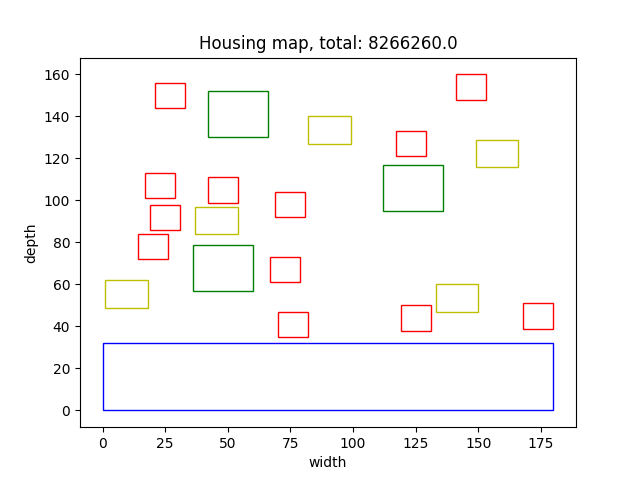
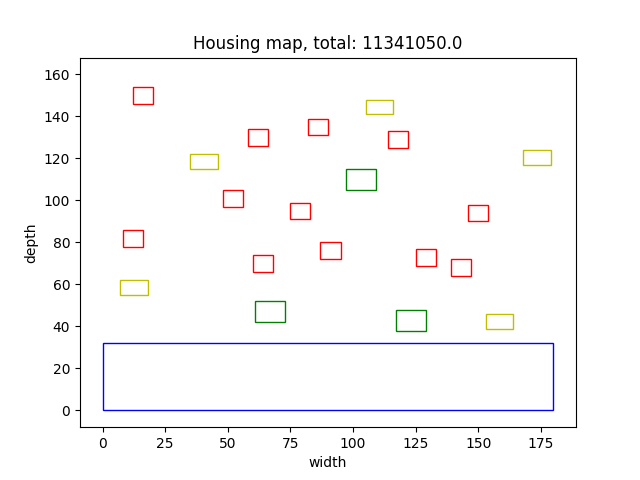
added constraint checker to overlaps teamwork

diff --git a/project_code/classes/land.py b/project_code/classes/land.py
@@ -13,6 +13,7 @@ class Land():
     def __init__(self, source_file, number_houses):
         self.width = 180
         self.depth = 160
+        self.all_polygons = []
         self.all_land_objects = []
         # self.available_coordinates = []
         self.total = 0
@@ -24,7 +25,7 @@ class Land():
         
         self.water = self.load_water(source_file)
         self.load_houses(number_houses, )
-         
+        
     # def remove_used_point(self, land_object):
         
         # for x in range(land_object.bottom_left[0], land_object.top_right[0]+1):
@@ -45,14 +46,27 @@ class Land():
             if land_object.polygon.intersects(new_house) == True:
                 # del house
                 return True
+        
+            if land_object.name != 'water':
+                origin = house.polygon
+                polygons = MultiPolygon(self.all_polygons)
+                nearest_geom = nearest_points(origin, polygons)
+                x = math.floor(nearest_geom[0].distance(nearest_geom[1]))
+                extra_space = math.floor(x)
+                if extra_space < land_object.free_space:
+                    #print(f"extra space: {extra_space}")
+                    #print (f'fout {land_object.name}')
+                    return True
+                
 
         # if no overlap append polygon to list
         self.all_land_objects.append(house)
+        self.all_polygons.append(house.polygon)
 
-        #self.remove_used_point(house)  
-        print(house)
-        # exit the while loop
         return False
+    
+    def check_free_space(self):
+        pass
 
 
     def load_water(self, source_file):
@@ -74,9 +88,8 @@ class Land():
 
                 water = Water(bottom_left_tuple, top_right_tuple, polygon)
 
-                # self.remove_used_point(water)
-
                 self.all_land_objects.append(water)
+                self.all_polygons.append(water.polygon)
          
         return self.all_land_objects
 
@@ -86,36 +99,36 @@ class Land():
         '''
 
         for i in range(int(0.15 * number_houses)):
-            width = 24
-            depth = 22
+            width = 12
+            depth = 10
             overlap = True
             maison = None
             while (overlap):
                 coordinates = randomise_coordinates(width, depth)
                 polygon = Polygon([coordinates, (coordinates[0] + width, coordinates[1]), (coordinates[0] + width, coordinates[1] + depth), (coordinates[0], coordinates[1] + depth)])
-                maison = House("maison", width, depth, 610000, coordinates, polygon)
+                maison = House("maison", width, depth, 610000, coordinates, polygon, 6)
                 overlap = self.overlap(maison)         
 
         for i in range(int(0.25 * number_houses)):
-            width = 17
-            depth = 13
+            width = 11
+            depth = 7
             overlap = True
             bungalow = None
             while (overlap):
                 coordinates = randomise_coordinates(width, depth)
                 polygon = Polygon([coordinates, (coordinates[0] + width, coordinates[1]), (coordinates[0] + width, coordinates[1] + depth), (coordinates[0], coordinates[1] + depth)])
-                bungalow = House("bungalow", width, depth, 399000, coordinates, polygon)
+                bungalow = House("bungalow", width, depth, 399000, coordinates, polygon, 3)
                 overlap = self.overlap(bungalow)
 
         for i in range(int(0.6 * number_houses)):
-            width = 12
-            depth = 12
+            width = 8
+            depth = 8
             overlap = True
             familyhome = None
             while(overlap):
                 coordinates = randomise_coordinates(width, depth)
                 polygon = Polygon([coordinates, (coordinates[0] + width, coordinates[1]), (coordinates[0] + width, coordinates[1] + depth), (coordinates[0], coordinates[1] + depth)])
-                familyhome = House("familyhome", width, depth, 285000, coordinates, polygon)
+                familyhome = House("familyhome", width, depth, 285000, coordinates, polygon, 2)
                 overlap = self.overlap(familyhome)
             
      
@@ -136,7 +149,7 @@ class Land():
                 polygons = MultiPolygon(all_polygons)
                 nearest_geom = nearest_points(origin, polygons)
                 x = math.floor(nearest_geom[0].distance(nearest_geom[1]))
-                extra_space = math.floor(x / 2) # /2 weghalen
+                extra_space = math.floor(x) # /2 weghalen
                 house.nearest_neighbour = extra_space
                 all_polygons.append(origin)        
 

diff --git a/project_code/classes/house.py b/project_code/classes/house.py
@@ -1,6 +1,6 @@
 class House():
 
-    def __init__(self, type_house, width, depth, price, coordinates, polygon):
+    def __init__(self, type_house, width, depth, price, coordinates, polygon, free_space):
         self.name = type_house
         self.width = width
         self.depth = depth
@@ -9,6 +9,7 @@ class House():
         self.top_right = tuple((self.bottom_left[0] + self.width, self.bottom_left[1] + self.depth))
         self.polygon = polygon
         self.nearest_neighbour = None
+        self.free_space = free_space
 
     def __str__(self):
         return (f"name:{self.name}, left_bottom: {self.bottom_left}, top_right: {self.top_right}")
